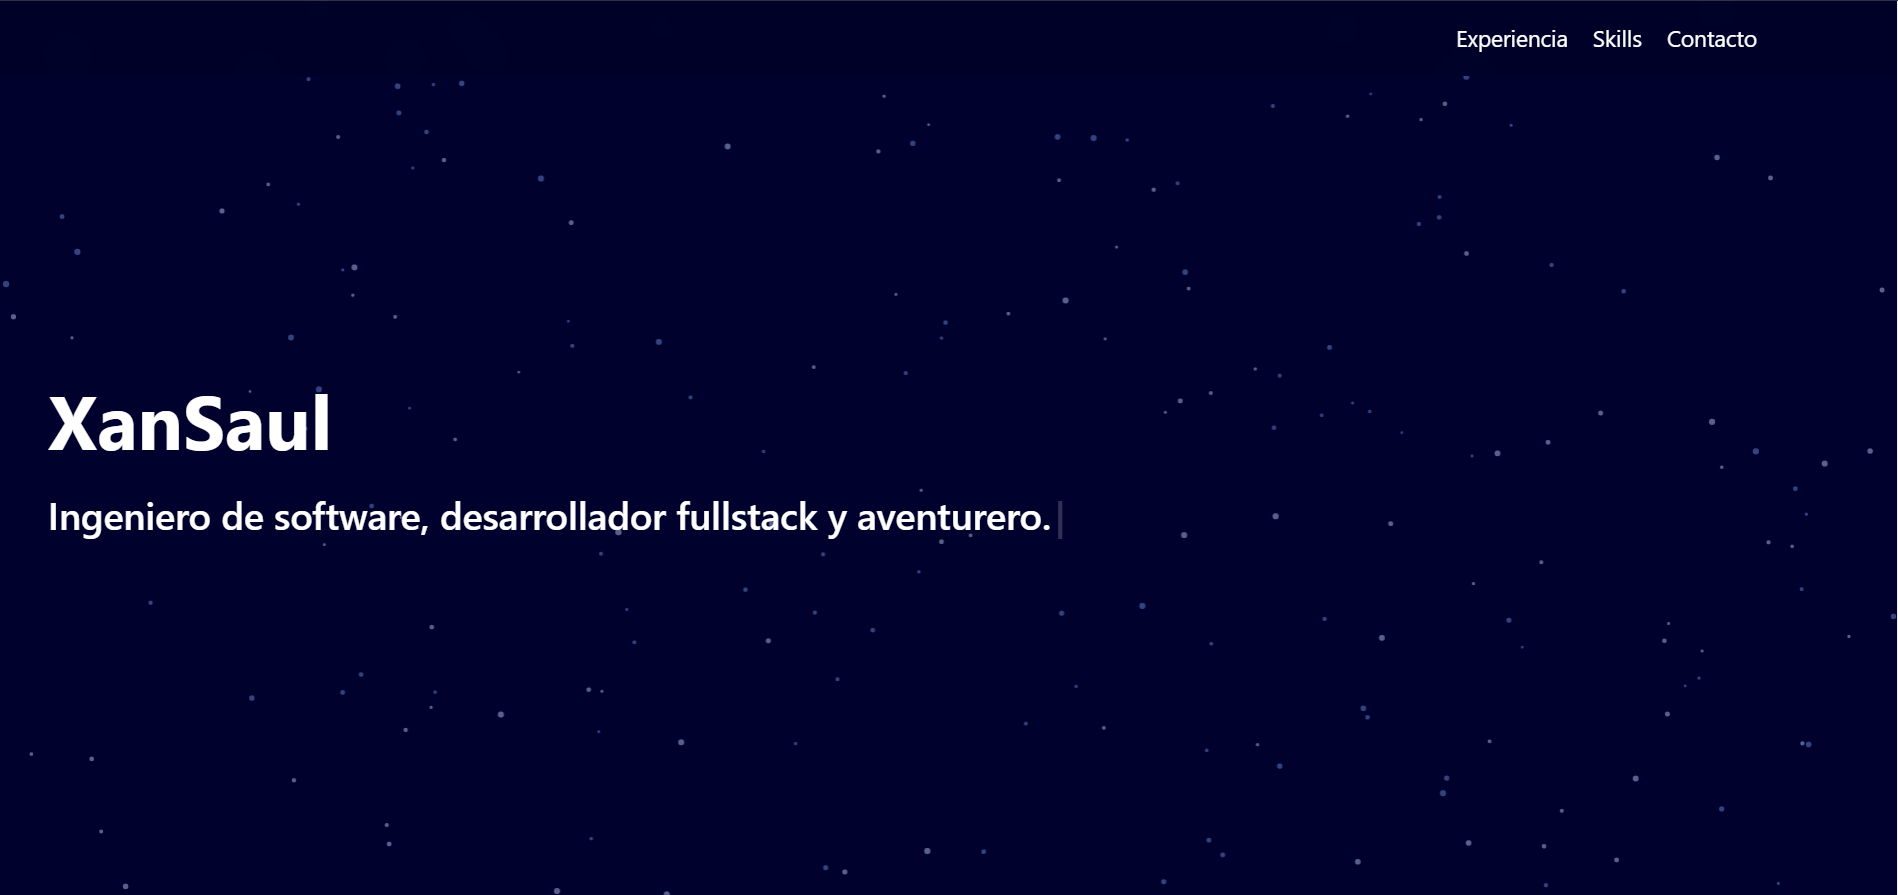
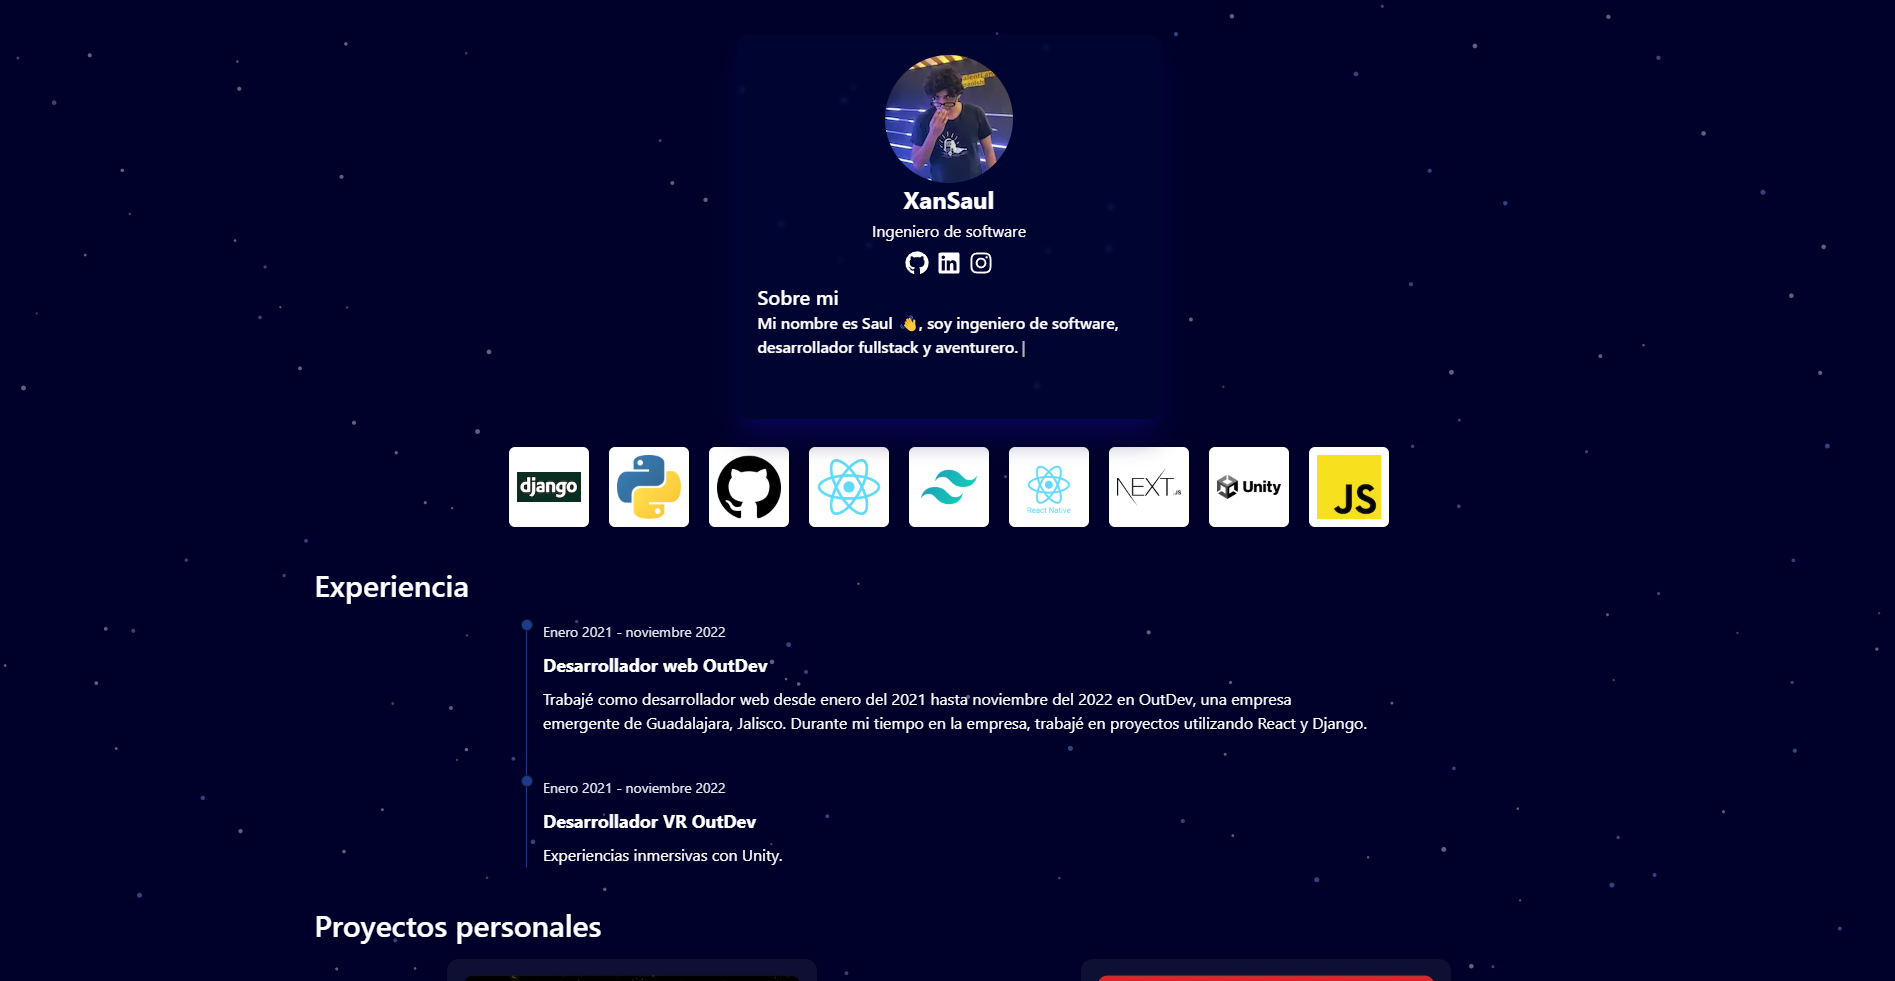
new ui

diff --git a/components/information/Experience.tsx b/components/information/Experience.tsx
@@ -1,88 +1,31 @@
 import Image from "next/image";
 import Link from "next/link";
+import { TimeLine } from "../timeline/TimeLine";
+import { ProjectCard } from "../cards/ProjectCard";
+import { projects } from "@/config/data/projects";
 
 export const Experience = () => {
   return (
-    <div className="text-white h-auto sm:my-10" id="experience">
+    <div className="text-white mt-10 m-auto xl:w-full w-11/12">
       <h2 className="text-3xl font-semibold block mb-4">
-        2 Años de Experiencia
+        Experiencia
       </h2>
       <article>
-        <section className="grid md:grid-cols-2">
-          <Image
-            src="/outdev.jpg"
-            alt="outdev logo"
-            width={250}
-            height={250}
-            className="self-center place-self-center"
-            loading="eager"
-          />
-          <div>
-            <p className="mt-4 sm:text-xl">
-            Trabajé como desarrollador web desde enero del 2021 hasta noviembre del 2022 en OutDev, 
-            una empresa emergente de Guadalajara, Jalisco. 
-            Durante mi tiempo en la empresa, trabajé en proyectos utilizando React y Django,
-             además de crear experiencias inmersivas con Unity.
-            </p>
-            <p className="mt-4 sm:text-xl">
-              {" "}
-              Actualmente, ya no trabajo en OutDev debido a circunstancias
-              externas.
-            </p>
-          </div>
-        </section>
+        <TimeLine />
         <section className="md:mt-4 mt-20">
           <h3 className="text-3xl font-semibold block mb-4">
             Proyectos personales
           </h3>
-
-          <div className="grid md:grid-cols-2 gap-4 ">
-            <p className="mt-4 sm:text-xl self-center ">
-              Pequeño proyecto en Unity, el cual simula la aceleración de la
-              gravedad de los cuerpos celestes con la ley de gravitación
-              universal, y otra manera mas simplificada.
-            </p>
-
-            <div className="w-auto m-auto mt-2">
-              <Link
-                href="https://fanciful-mandazi-f672f4.netlify.app/"
-                target="_blank"
-                title="Unity Planets"
-              >
-                <Image
-                  src="/planets.png"
-                  alt="Planetas"
-                  width={600}
-                  height={600}
-                  quality={60}
-                />
-              </Link>
-            </div>
-          </div>
-
-          <div className="flex items-center justify-center "></div>
-
-          <div className="grid md:grid-cols-2 gap-4 mt-5">
-            <div className="w-auto m-auto mt-2 row-start-2 row-end-3 md:row-start-1 md:row-end-2">
-              <Link
-                href="https://population-calc-front.vercel.app/"
-                target="_blank"
-              >
-                <Image
-                  src="/calc-population.png"
-                  alt="Calcular Población página"
-                  width={600}
-                  height={600}
-                  quality={60}
-                  title="Calcularo población"
-                />
-              </Link>
-            </div>
-
-            <p className="mt-4 sm:text-xl self-center ">
-              Página web que usa ecuaciones diferenciales para calcular el
-              crecimiento exponencial de sistemas de población.
-            </p>
+          <div 
+          className="grid xl:grid-cols-3 lg:grid-cols-2 md:grid-cols-2 sm:grid-cols-2 gap-4
+              m-auto w-full 
+            "
+          >
+            {
+              projects.map(project=>(
+                <ProjectCard key={project.imageSrc} {...project} />
+              ))
+            }
           </div>
         </section>
       </article>

diff --git a/components/timeline/TimeLine.tsx b/components/timeline/TimeLine.tsx
@@ -1,0 +1,37 @@
+import React from "react";
+
+export const TimeLine = () => {
+  return (
+    <div className="m-auto xl:w-8/12 ">
+      <ol className="relative border-l border-blue-900">
+        <li className="mb-10 ml-4">
+          <div className="absolute w-3 h-3 rounded-full -left-1.5 border border-white dark:border-gray-900 bg-blue-900"></div>
+          <time className="mb-1 text-sm font-normal leading-none text-slate-200">
+            Enero 2021 - noviembre 2022
+          </time>
+          <h3 className="text-lg font-bold text-white my-2">
+            Desarrollador web OutDev
+          </h3>
+          <p className="mb-4 text-base font-normal text-white">
+            Trabajé como desarrollador web desde enero del 2021 hasta noviembre
+            del 2022 en OutDev, una empresa emergente de Guadalajara, Jalisco.
+            Durante mi tiempo en la empresa, trabajé en proyectos utilizando
+            React y Django.
+          </p>
+        </li>
+        <li className="mb-10 ml-4">
+          <div className="absolute w-3 h-3 rounded-full -left-1.5 border border-white dark:border-gray-900 bg-blue-900"></div>
+          <time className="mb-1 text-sm font-normal leading-none text-slate-200">
+            Enero 2021 - noviembre 2022
+          </time>
+          <h3 className="text-lg font-bold text-white my-2">
+            Desarrollador VR OutDev
+          </h3>
+          <p className="mb-4 text-base font-normal text-white">
+            Experiencias inmersivas con Unity.
+          </p>
+        </li>
+      </ol>
+    </div>
+  );
+};

diff --git a/components/cards/ProjectCard.tsx b/components/cards/ProjectCard.tsx
@@ -1,0 +1,53 @@
+import Image from "next/image";
+import React from "react";
+
+interface Props {
+  imageSrc: string;
+  imageAlt: string;
+  description: string;
+  githubUrl: string;
+}
+
+export const ProjectCard = ({
+  description,
+  imageAlt,
+  imageSrc,
+  githubUrl,
+}: Props) => {
+  return (
+    <div className="h-full justify-self-center w-10/12 lg:w-full md:w-full sm:w-full">
+      <div className="flex flex-col justify-between h-full rounded-xl bg-[#0d1032] shadow-md p-4">
+        <div>
+          <div className="w-full overflow-hidden rounded-t-xl h-48">
+            <Image
+              src={imageSrc}
+              alt={imageAlt}
+              width={600}
+              height={600}
+              priority
+              className="w-full h-full object-cover"
+            />
+          </div>
+          <p className="text-sm mt-4">{description}</p>
+        </div>
+        <div className="flex justify-end mt-4">
+          <a
+            href={githubUrl}
+            target="_blank"
+            className="transition-all duration-150 text-center p-2 rounded-md text-white w-11 h-11
+                      bg-[#131c46] hover:bg-[#192646] hover:shadow-md flex justify-center"
+          >
+            <Image
+              src="/svg/github.svg"
+              alt="logo github"
+              width={24}
+              height={24}
+              priority={false}
+              className="w-auto h-auto"
+            />
+          </a>
+        </div>
+      </div>
+    </div>
+  );
+};

diff --git a/config/data/projects.ts b/config/data/projects.ts
@@ -1,0 +1,26 @@
+export const projects = [
+    {
+        imageSrc: "/planets.png",
+        imageAlt: "Planetas",
+        description: "Pequeño proyecto en Unity, el cual simula la aceleración de la gravedad de los cuerpos celestes con la ley de gravitación universal, y otra manera mas simplificada.",
+        githubUrl: "https://github.com/xansaul/PlanetsUnity"
+    },
+    {
+        imageSrc: "/calc-population.png",
+        imageAlt: "Calcular Población página",
+        description: "Página web que usa ecuaciones diferenciales para calcular el crecimiento exponencial de sistemas de población.",
+        githubUrl: "https://github.com/xansaul/PopulationCalcFront"
+    },
+    {
+        imageSrc: "/prolog-django.png",
+        imageAlt: "Django Prolog",
+        description: "Proyecto que consiste en el desarrollo de un chatbot utilizando Django para el backend, React para el frontend y Swi-Prolog para la lógica de procesamiento de lenguaje natural.",
+        githubUrl: "https://github.com/xansaul/django-prolog"
+    },
+    // {
+    //     imageSrc: "/django-tools.png",
+    //     imageAlt: "Django Tools CLI",
+    //     description: "Herramienta de línea de comandos (CLI) escrita en Rust 🦀 para crear rápidamente APIs en Django. Proporciona comandos para generar diferentes componentes de un proyecto Django, como ViewSet, ApiView y también generar nuevos proyectos.",
+    //     githubUrl: "https://github.com/xansaul/django-tools"
+    // },
+]

diff --git a/components/information/Contact.tsx b/components/information/Contact.tsx
@@ -1,21 +1,23 @@
 import React from "react";
+import { SocialMedia } from "./SocialMedia";
 
 export const Contact = () => {
   return (
-    <div className="flex justify-center items-center mb-4 mt-10" id="contacto">
+    <footer className="flex justify-center items-center mb-4 mt-10 xl:w-8/12 w-11/12 m-auto">
       <div
-        className="md:py-14 py-10 px-6 top-0 md:px-14 w-12/12lg:w-[38rem]
-                backdrop-blur-[2px]    bg-[#00073D]/70 
+        className="md:py-14 py-10 px-6 top-0 md:px-20 w-12/12lg:w-[38rem]
+                backdrop-blur-[2px] rounded-xl bg-[#00073D]/60 
                 "
       >
         <h3 className="mb-3 md:text-3xl text-2xl font-bold">Contáctame</h3>
-        <p className=" font-medium md:text-xl text-base">
-          Si te interesa mi perfil como ingeniero de software y quieres que
-          desarrolle algún proyecto para ti, o si necesitas alguna asesoría,
-          ofrezco mi servicio como freelance. Te dejo mis redes sociales en la
-          parte de abajo.
-        </p>
+        <SocialMedia className={"h-10 w-10"} />
+        <div className="flex flex-wrap gap-5 items-center justify-center sm:mx-32 flex-col">
+          <h2 className=" text-xl font-semibold">XanSaul</h2>
+          <h2 className="mb-6 text-xl font-semibold">
+            Alejandro Saul Huerta Murillo
+          </h2>
+        </div>
       </div>
-    </div>
+    </footer>
   );
 };

diff --git a/components/cards/ProfileCard.tsx b/components/cards/ProfileCard.tsx
@@ -5,7 +5,10 @@ import { SocialMedia } from "../information/SocialMedia";
 
 export const ProfileCard = () => {
   return (
-    <div className="w-full mx-auto mt-10 mb-5 backdrop-blur-[2px] text-white bg-[#000735]/70 rounded-xl shadow-md p-5 h-96">
+    <div 
+      className="w-full mx-auto mt-10 mb-7 backdrop-blur-[2px] text-white bg-[#000735]/50
+                  rounded-xl p-5 h-96 shadow-xl shadow-[#040550]"
+    >
       <Image
         className="w-32 h-32 rounded-full mx-auto"
         src="/me.jpg"
@@ -18,13 +21,14 @@ export const ProfileCard = () => {
       <SocialMedia />
       <div className="mt-2">
         <article>
-          <h3 className="text-xl font-semibold">Sobre mi.</h3>
+          <h2 className="text-xl font-semibold">Sobre mi</h2>
           <p>
             <span className="font-semibold md:text-start text-center">
               Mi nombre es Saul 👋, soy ingeniero de software,
               <Typewriter
                 words={[" desarrollador fullstack y aventurero."]}
-                typeSpeed={60}
+                typeSpeed={100}
+                deleteSpeed={100}
                 cursor
                 loop
               />

diff --git a/components/information/SocialMedia.tsx b/components/information/SocialMedia.tsx
@@ -1,15 +1,23 @@
 import Image from "next/image";
 import React from "react";
 
-export const SocialMedia = () => {
+export const SocialMedia = ({ className = "" }:{className?: string}) => {
   return (
     <div className="flex justify-center mt-2 gap-2">
+      
       <a
         href="https://github.com/xansaul"
         target="_blank"
         title="Github xansaul"
+
       >
-        <Image src="/svg/github.svg" alt="logo github" width={24} height={24} />
+        <Image
+        className={className}
+          src="/svg/github.svg"
+          alt="logo github"
+          width={24}
+          height={24}
+        />
       </a>
 
       <a
@@ -18,6 +26,7 @@ export const SocialMedia = () => {
         title="Linkedin xansaul"
       >
         <Image
+        className={className}
           src="/svg/linkedin.svg"
           alt="logo linkedin"
           width={24}
@@ -31,6 +40,7 @@ export const SocialMedia = () => {
         title="Instagram xansaul"
       >
         <Image
+        className={className}
           src="/svg/instagram.svg"
           alt="logo instagram"
           width={24}

diff --git a/components/ui/Footer.tsx b/components/ui/Footer.tsx
@@ -3,12 +3,21 @@ import { SocialMedia } from "../information/SocialMedia";
 
 export const Footer = () => {
   return (
-    <footer className="w-full h-auto p-2 ">
-      <div className="flex flex-wrap gap-5 items-center justify-center sm:mx-32 flex-col">
-        <SocialMedia />
-        <h2 className="mb-6 text-xl font-semibold">
-          XanSaul
-        </h2>
+    <footer className="w-11/12 items-center mb-2 mt-10  m-auto">
+      <div
+        className="py-2 top-0 md:px-20 w-12/12lg:w-[38rem]
+               
+                "
+      >
+    
+          <SocialMedia className={"h-6 w-6"} />
+        
+        <div className="flex flex-col items-center">
+          <h2 className="my-2 text-lg font-semibold">XanSaul</h2>
+          <h2 className="text-lg font-semibold">
+            Alejandro Saul Huerta Murillo
+          </h2>
+        </div>
       </div>
     </footer>
   );

diff --git a/components/layout/AppLayout.tsx b/components/layout/AppLayout.tsx
@@ -16,8 +16,8 @@ export const AppLayout: FC<Props> = ({ children }) => {
       <Head>
         <title>XanSaul</title>
         <meta name="author" content="Saul Huerta" />
-        <meta name="description" content="Saul Huerta ingeniero de software" />
-        <meta name="keywords" content="desarrollador, developer, Saul Huerta, xansaul" />
+        <meta name="keywords" content="desarrollador, developer, Saul Huerta, xansaul, Alejandro Saul Huerta Murillo" />
+        <meta name="description" content="Sitio web de Alejandro Saul Huerta Murillo, ingeniero de software." />
         <meta
           property="og:title"
           content="XanSaul ingeniero de software"

diff --git a/components/information/Technologies.tsx b/components/information/Technologies.tsx
@@ -3,7 +3,7 @@ import { TechnologyCard } from "../cards/TechnologyCard";
 
 export const Technologies = () => {
   return (
-    <div className="text-white xl:w-9/12 w-11/12 m-auto">
+    <div className="text-white m-auto">
       <div 
         className=" flex flex-wrap justify-center
                     gap-y-4 md:gap-x-5 gap-x-3  "

diff --git a/components/information/Banner.tsx b/components/information/Banner.tsx
@@ -5,7 +5,7 @@ import { ProfileCard } from "../cards/ProfileCard";
 export const Banner = () => {
   return (
     <>
-      <div className="xl:w-4/12 lg:w-6/12 md:w-6/12 sm:w-7/12 w-11/12 m-auto">
+      <div className="2xl:w-4/12 xl:w-5/12 lg:w-6/12 md:w-6/12 sm:w-7/12 w-11/12 m-auto">
         <ProfileCard />
       </div>
     </>

diff --git a/components/effects/ParticlesStars.tsx b/components/effects/ParticlesStars.tsx
@@ -21,7 +21,7 @@ export const ParticlesStars = () => {
         options={{
           background: {
             color: {
-              value: '#000128',
+              value: '#00012A',
             },
           },
           fullScreen:{
